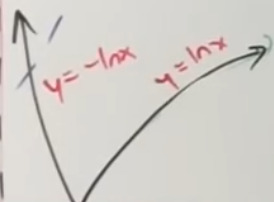
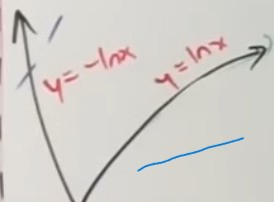
diagram vectorization value retweak

Changed region(s): [[0.4964, 0.6832, 0.9051, 0.8614]]

diff --git a/Diagram Vectorization/diagram_vectorization.py b/Diagram Vectorization/diagram_vectorization.py
@@ -10,9 +10,9 @@ def diagram_vectorization(cv_image, vectorization=False):
 
     if vectorization:
         lines = transform.probabilistic_hough_line(bw.astype(np.uint8), 
-                                                 threshold=10, 
+                                                 threshold=20, 
                                                  line_length=100, 
-                                                 line_gap=5)
+                                                 line_gap=2)
 
         for line in lines:
             p0, p1 = line
@@ -22,13 +22,13 @@ def diagram_vectorization(cv_image, vectorization=False):
     return digital_canvas
 
 if __name__ == "__main__":
-    image = cv2.imread("i3.jpg")
+    image = cv2.imread("i1.jpg")
     if image is None:
         print("Error: Could not find image.")
     else:
         diagram = diagram_vectorization(image,True)
         
-        cv2.imshow("Original", cv2.resize(image, (0,0), fx=0.5, fy=0.5))
-        cv2.imshow("Digitalized", cv2.resize(diagram, (0,0), fx=0.5, fy=0.5))
+        cv2.imshow("Original", image)
+        cv2.imshow("Digitalized", diagram)
         cv2.waitKey(0)
         cv2.destroyAllWindows()
